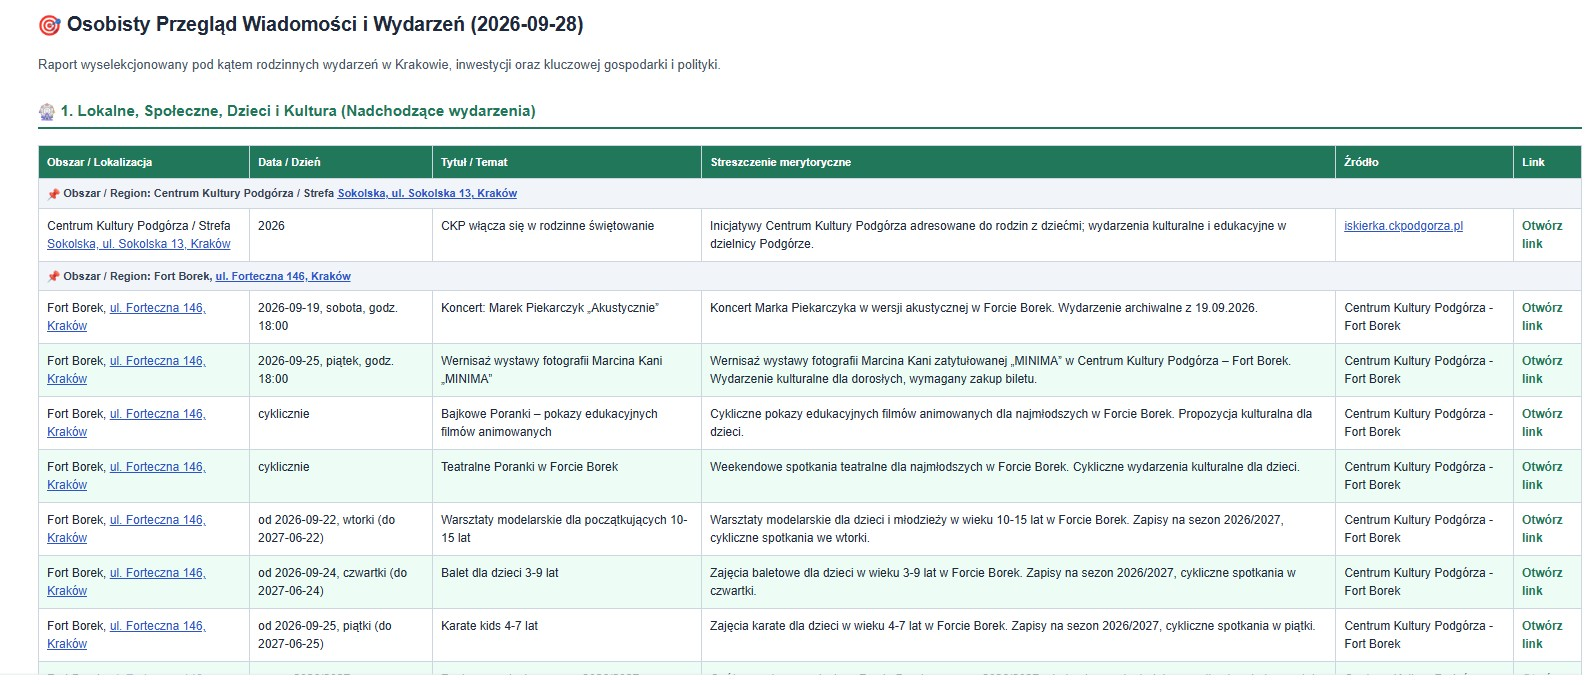
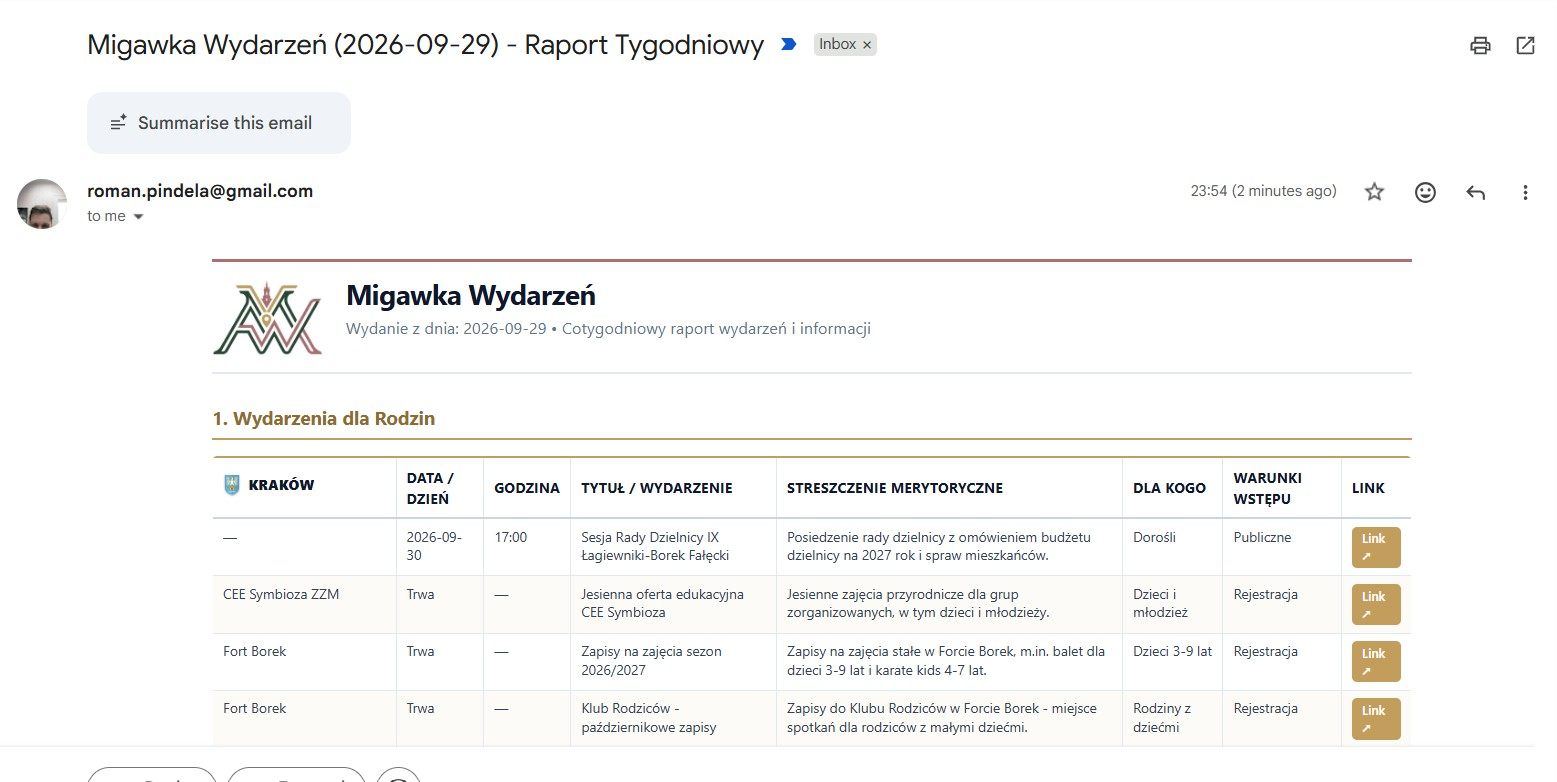
style: apply custom brand color scheme to email header and section tables
- set email header top accent border to #AB6F71
- update Section 1 (Wydarzenia dla Rodzin) accent border and badges to #C39D5C
- update Section 2 (Co się wydarzyło) accent border and badges to #AB6D70
- update Section 3 (Co jest w planach ?) accent border and badges to #264533
- match action button fills and alternating row highlights to corresponding section palettes
- screenshot update

diff --git a/Google Apps Script/Migawka wydarzeń/Migawka wydarzeń.js b/Google Apps Script/Migawka wydarzeń/Migawka wydarzeń.js
@@ -1,11 +1,5 @@
 /**
- * MIGAWKA WYDARZEŃ - KOMPLETNY KOD Z IDENTYFIKACJĄ WIZUALNĄ LOGO MW V2
- * 
- * - Logotyp "Logo MW v2.jpg" (wysokość 64px) w nagłówku wiadomości
- * - Brak emotikony tarczy ze strzałą
- * - Spójna paleta barw tabel dopasowana do marki (zieleń, granat, złoto)
- * - Bezpieczne kodowanie i naprawa linków URL
- * - Herby i flagi Retina @2x w nagłówkach kolumn
+ * MIGAWKA WYDARZEŃ - INDYWIDUALNA PALETA KOLORÓW DLA KAŻDEJ SEKCJI I NAGŁÓWKA
  */
 
 function generujRaportWiadomosci() {
@@ -245,7 +239,7 @@ function wczytajIkonyHerbowZDrive() {
 }
 
 // ============================================================================
-// GENEROWANIE STRUKTURY RAPORTU EMAIL HTML (KOLORYSTYKA ZHARMONIZOWANA Z LOGO MW)
+// GENEROWANIE STRUKTURY RAPORTU EMAIL HTML (Z DEFINIOWANĄ PALETĄ BARW)
 // ============================================================================
 
 function generujCialoRaportuEmailHtml(daneRodziny, daneWydarzylo, danePlany, dzisiajStr, mapaUrlIkon, urlLogo) {
@@ -273,8 +267,8 @@ function generujCialoRaportuEmailHtml(daneRodziny, daneWydarzylo, danePlany, dzi
   return `
     <div style="font-family: -apple-system, BlinkMacSystemFont, 'Segoe UI', Roboto, Helvetica, Arial, sans-serif; color: #1e293b; max-width: 960px; margin: 0 auto; font-size: 12px; line-height: 1.5;">
       
-      <!-- NAGŁÓWEK GŁÓWNY Z NOWYM LOGO O WYSOKOŚCI 64px -->
-      <div style="border-bottom: 2px solid #e2e8f0; border-top: 3px solid #d97706; padding-top: 10px; padding-bottom: 12px; margin-bottom: 24px; display: flex; align-items: center;">
+      <!-- NAGŁÓWEK GŁÓWNY (LINIA NAD NAGŁÓWKIEM: #AB6F71) -->
+      <div style="border-top: 3px solid #AB6F71; border-bottom: 2px solid #e2e8f0; padding-top: 12px; padding-bottom: 12px; margin-bottom: 24px; display: flex; align-items: center;">
         ${logoTag}
         <div>
           <h2 style="font-size: 22px; color: #0f172a; margin: 0; padding: 0; font-weight: 700; line-height: 1.2; letter-spacing: -0.3px;">
@@ -286,28 +280,28 @@ function generujCialoRaportuEmailHtml(daneRodziny, daneWydarzylo, danePlany, dzi
         </div>
       </div>
 
-      <!-- 1. WYDARZENIA DLA RODZIN (BUTELKOWA ZIELEŃ) -->
+      <!-- 1. TABELA: WYDARZENIA DLA RODZIN (#C39D5C) -->
       <div style="margin-bottom: 32px;">
-        <h3 style="font-size: 15px; color: #065f46; margin: 0 0 12px 0; border-bottom: 2px solid #059669; padding-bottom: 5px; font-weight: 700;">
+        <h3 style="font-size: 15px; color: #8e6c31; margin: 0 0 12px 0; border-bottom: 2px solid #C39D5C; padding-bottom: 5px; font-weight: 700;">
           1. Wydarzenia dla Rodzin
         </h3>
-        ${budujTabeleZHerbamiWKolumnie(daneRodziny, resztaKolumnRodziny, konfiguracjaRodziny, "#059669", "#f0fdf4", mapaUrlIkon, 8)}
+        ${budujTabeleZHerbamiWKolumnie(daneRodziny, resztaKolumnRodziny, konfiguracjaRodziny, "#C39D5C", "#fdfbf7", mapaUrlIkon, 8)}
       </div>
 
-      <!-- 2. CO SIĘ WYDARZYŁO (GŁĘBOKI GRANAT BRANDOWY) -->
+      <!-- 2. TABELA: CO SIĘ WYDARZYŁO (#AB6D70) -->
       <div style="margin-bottom: 32px;">
-        <h3 style="font-size: 15px; color: #1e3a8a; margin: 0 0 12px 0; border-bottom: 2px solid #2563eb; padding-bottom: 5px; font-weight: 700;">
+        <h3 style="font-size: 15px; color: #7f4448; margin: 0 0 12px 0; border-bottom: 2px solid #AB6D70; padding-bottom: 5px; font-weight: 700;">
           2. Co się wydarzyło (Minione 7 dni)
         </h3>
-        ${budujTabeleZHerbamiWKolumnie(daneWydarzylo, resztaKolumnOgolne, konfiguracjaOgolna, "#1e3a8a", "#f8fafc", mapaUrlIkon, 6)}
+        ${budujTabeleZHerbamiWKolumnie(daneWydarzylo, resztaKolumnOgolne, konfiguracjaOgolna, "#AB6D70", "#fcf8f8", mapaUrlIkon, 6)}
       </div>
 
-      <!-- 3. CO JEST W PLANACH ? (SZLACHETNE ZŁOTO / BURSZTYN) -->
+      <!-- 3. TABELA: CO JEST W PLANACH ? (#264533) -->
       <div style="margin-bottom: 32px;">
-        <h3 style="font-size: 15px; color: #92400e; margin: 0 0 12px 0; border-bottom: 2px solid #d97706; padding-bottom: 5px; font-weight: 700;">
+        <h3 style="font-size: 15px; color: #1b3325; margin: 0 0 12px 0; border-bottom: 2px solid #264533; padding-bottom: 5px; font-weight: 700;">
           3. Co jest w planach ?
         </h3>
-        ${budujTabeleZHerbamiWKolumnie(danePlany, resztaKolumnOgolne, konfiguracjaOgolna, "#d97706", "#fffbeb", mapaUrlIkon, 6)}
+        ${budujTabeleZHerbamiWKolumnie(danePlany, resztaKolumnOgolne, konfiguracjaOgolna, "#264533", "#f5f8f6", mapaUrlIkon, 6)}
       </div>
     </div>
   `;
@@ -367,6 +361,7 @@ function budujTabeleEmail(dane, naglowki, kolorAkcentu, kolorWierszaAlt) {
 
   let html = `<table style="border-collapse: collapse; width: 100%; font-size: 11px; margin-top: 4px; margin-bottom: 10px; background: #ffffff; border: 1px solid #e2e8f0; border-radius: 4px; overflow: hidden; box-shadow: 0 1px 2px rgba(0,0,0,0.02);">`;
   
+  // Górna krawędź nagłówka z 3px akcentem dedykowanym danej tabeli
   html += `<thead><tr style="background-color: #ffffff; color: #0f172a; border-top: 3px solid ${kolorAkcentu}; border-bottom: 2px solid #cbd5e1;">`;
   naglowki.forEach((naglowek, idx) => {
     let stylPierwszej = (idx === 0) ? "white-space: nowrap; min-width: 130px;" : "";
@@ -382,9 +377,9 @@ function budujTabeleEmail(dane, naglowki, kolorAkcentu, kolorWierszaAlt) {
       let jestOstatniaKolumna = (colIdx === wiersz.length - 1);
       
       if (jestOstatniaKolumna) {
-        tekst = formatujKomorkeZLinkiem(tekst, "#0f172a");
+        tekst = formatujKomorkeZLinkiem(tekst, kolorAkcentu);
       } else if (tekst.startsWith("http://") || tekst.startsWith("https://")) {
-        tekst = formatujKomorkeZLinkiem(tekst, "#0f172a");
+        tekst = formatujKomorkeZLinkiem(tekst, kolorAkcentu);
       } else if (tekst.length > 220) {
         tekst = tekst.substring(0, 220) + "...";
       }
